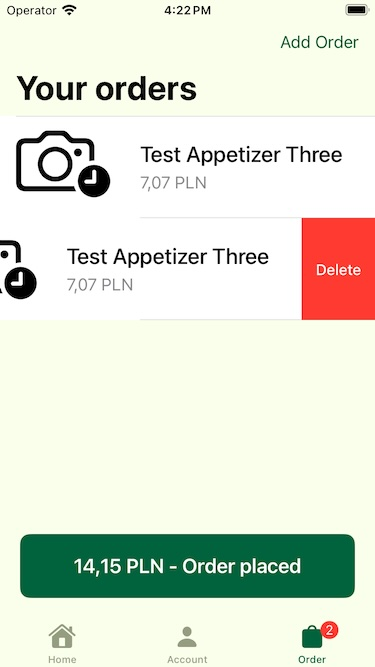
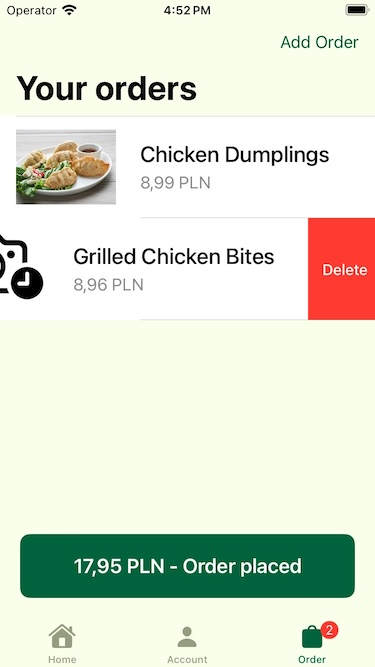
Updated image with better view

diff --git a/Appstawki/Data/MockData.swift b/Appstawki/Data/MockData.swift
@@ -36,7 +36,7 @@ struct MockData {
     
     static let orderItemOne     = genAppetizer(id: 0001, name: "Test Appetizer One")
     static let orderItemTwo     = genAppetizer(id: 0002, name: "Test Appetizer Two")
-    static let orderItemThree   = genAppetizer(id: 0003, name: "Test Appetizer Three")
+    static let orderItemThree   = genAppetizer(id: 0003, name: "Grilled Chicken Bites")
     
     static let orderItems       = [orderItemOne, orderItemTwo, orderItemThree]
 }
